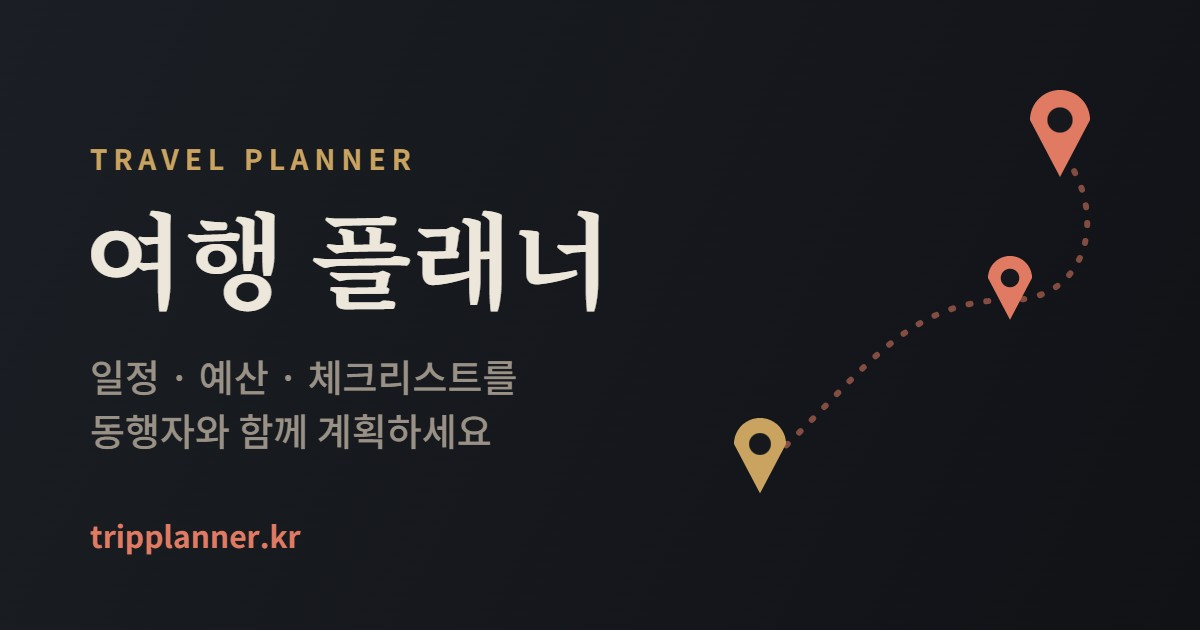
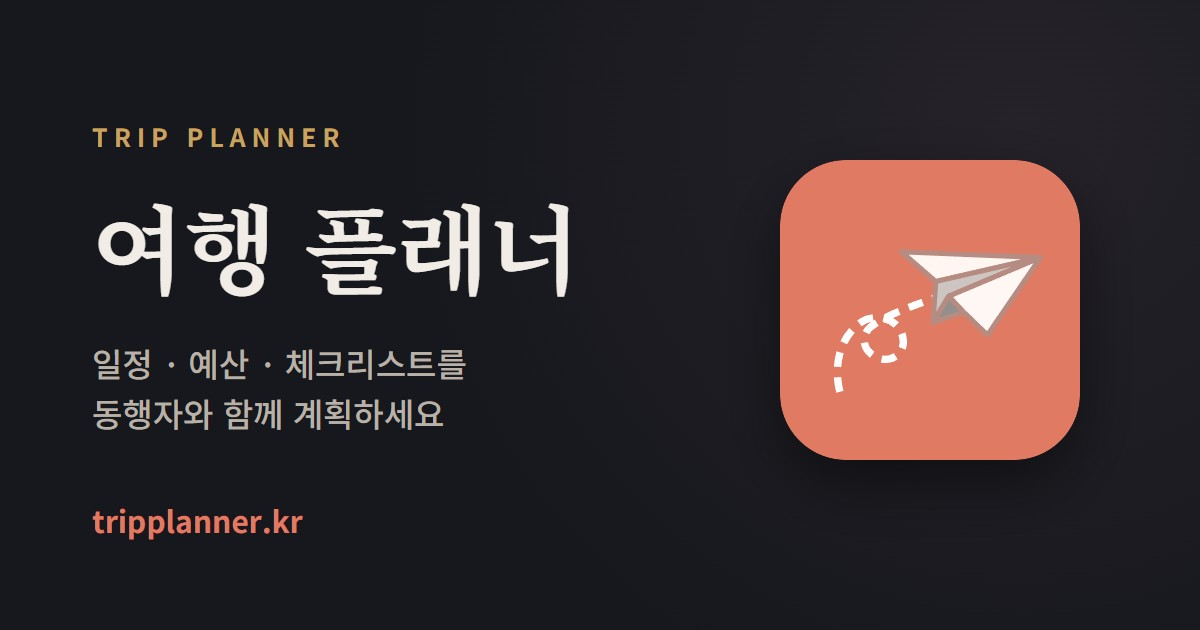
🎨 Design : 링크 미리보기 이미지를 TRIP PLANNER·새 아이콘으로 (npm run og), 캐시 갱신용 ?v=2

diff --git a/web/index.html b/web/index.html
@@ -13,7 +13,7 @@
     <meta property="og:site_name" content="여행 플래너" />
     <meta property="og:title" content="여행 플래너" />
     <meta property="og:description" content="일정·예산·체크리스트를 동행자와 함께 계획하세요" />
-    <meta property="og:image" content="https://tripplanner.kr/og.jpg" />
+    <meta property="og:image" content="https://tripplanner.kr/og.jpg?v=2" />
     <meta property="og:image:width" content="1200" />
     <meta property="og:image:height" content="630" />
     <meta property="og:url" content="https://tripplanner.kr/" />

diff --git a/web/functions/index.js b/web/functions/index.js
@@ -125,7 +125,7 @@ exports.ogPage = onRequest({ region: "us-central1" }, async (req, res) => {
     if (meta) {
       // A function, not a string: a replacement string would treat "$'", "$&" etc.
       // in a trip's title as patterns and splice other parts of the page in.
-      const block = previewBlock({ ...meta, url: origin + req.path, image: `${origin}/og.jpg` });
+      const block = previewBlock({ ...meta, url: origin + req.path, image: `${origin}/og.jpg?v=2` });
       html = html.replace(/<!--og:start-->[\s\S]*?<!--og:end-->/, () => block);
     }
   } catch (err) {
